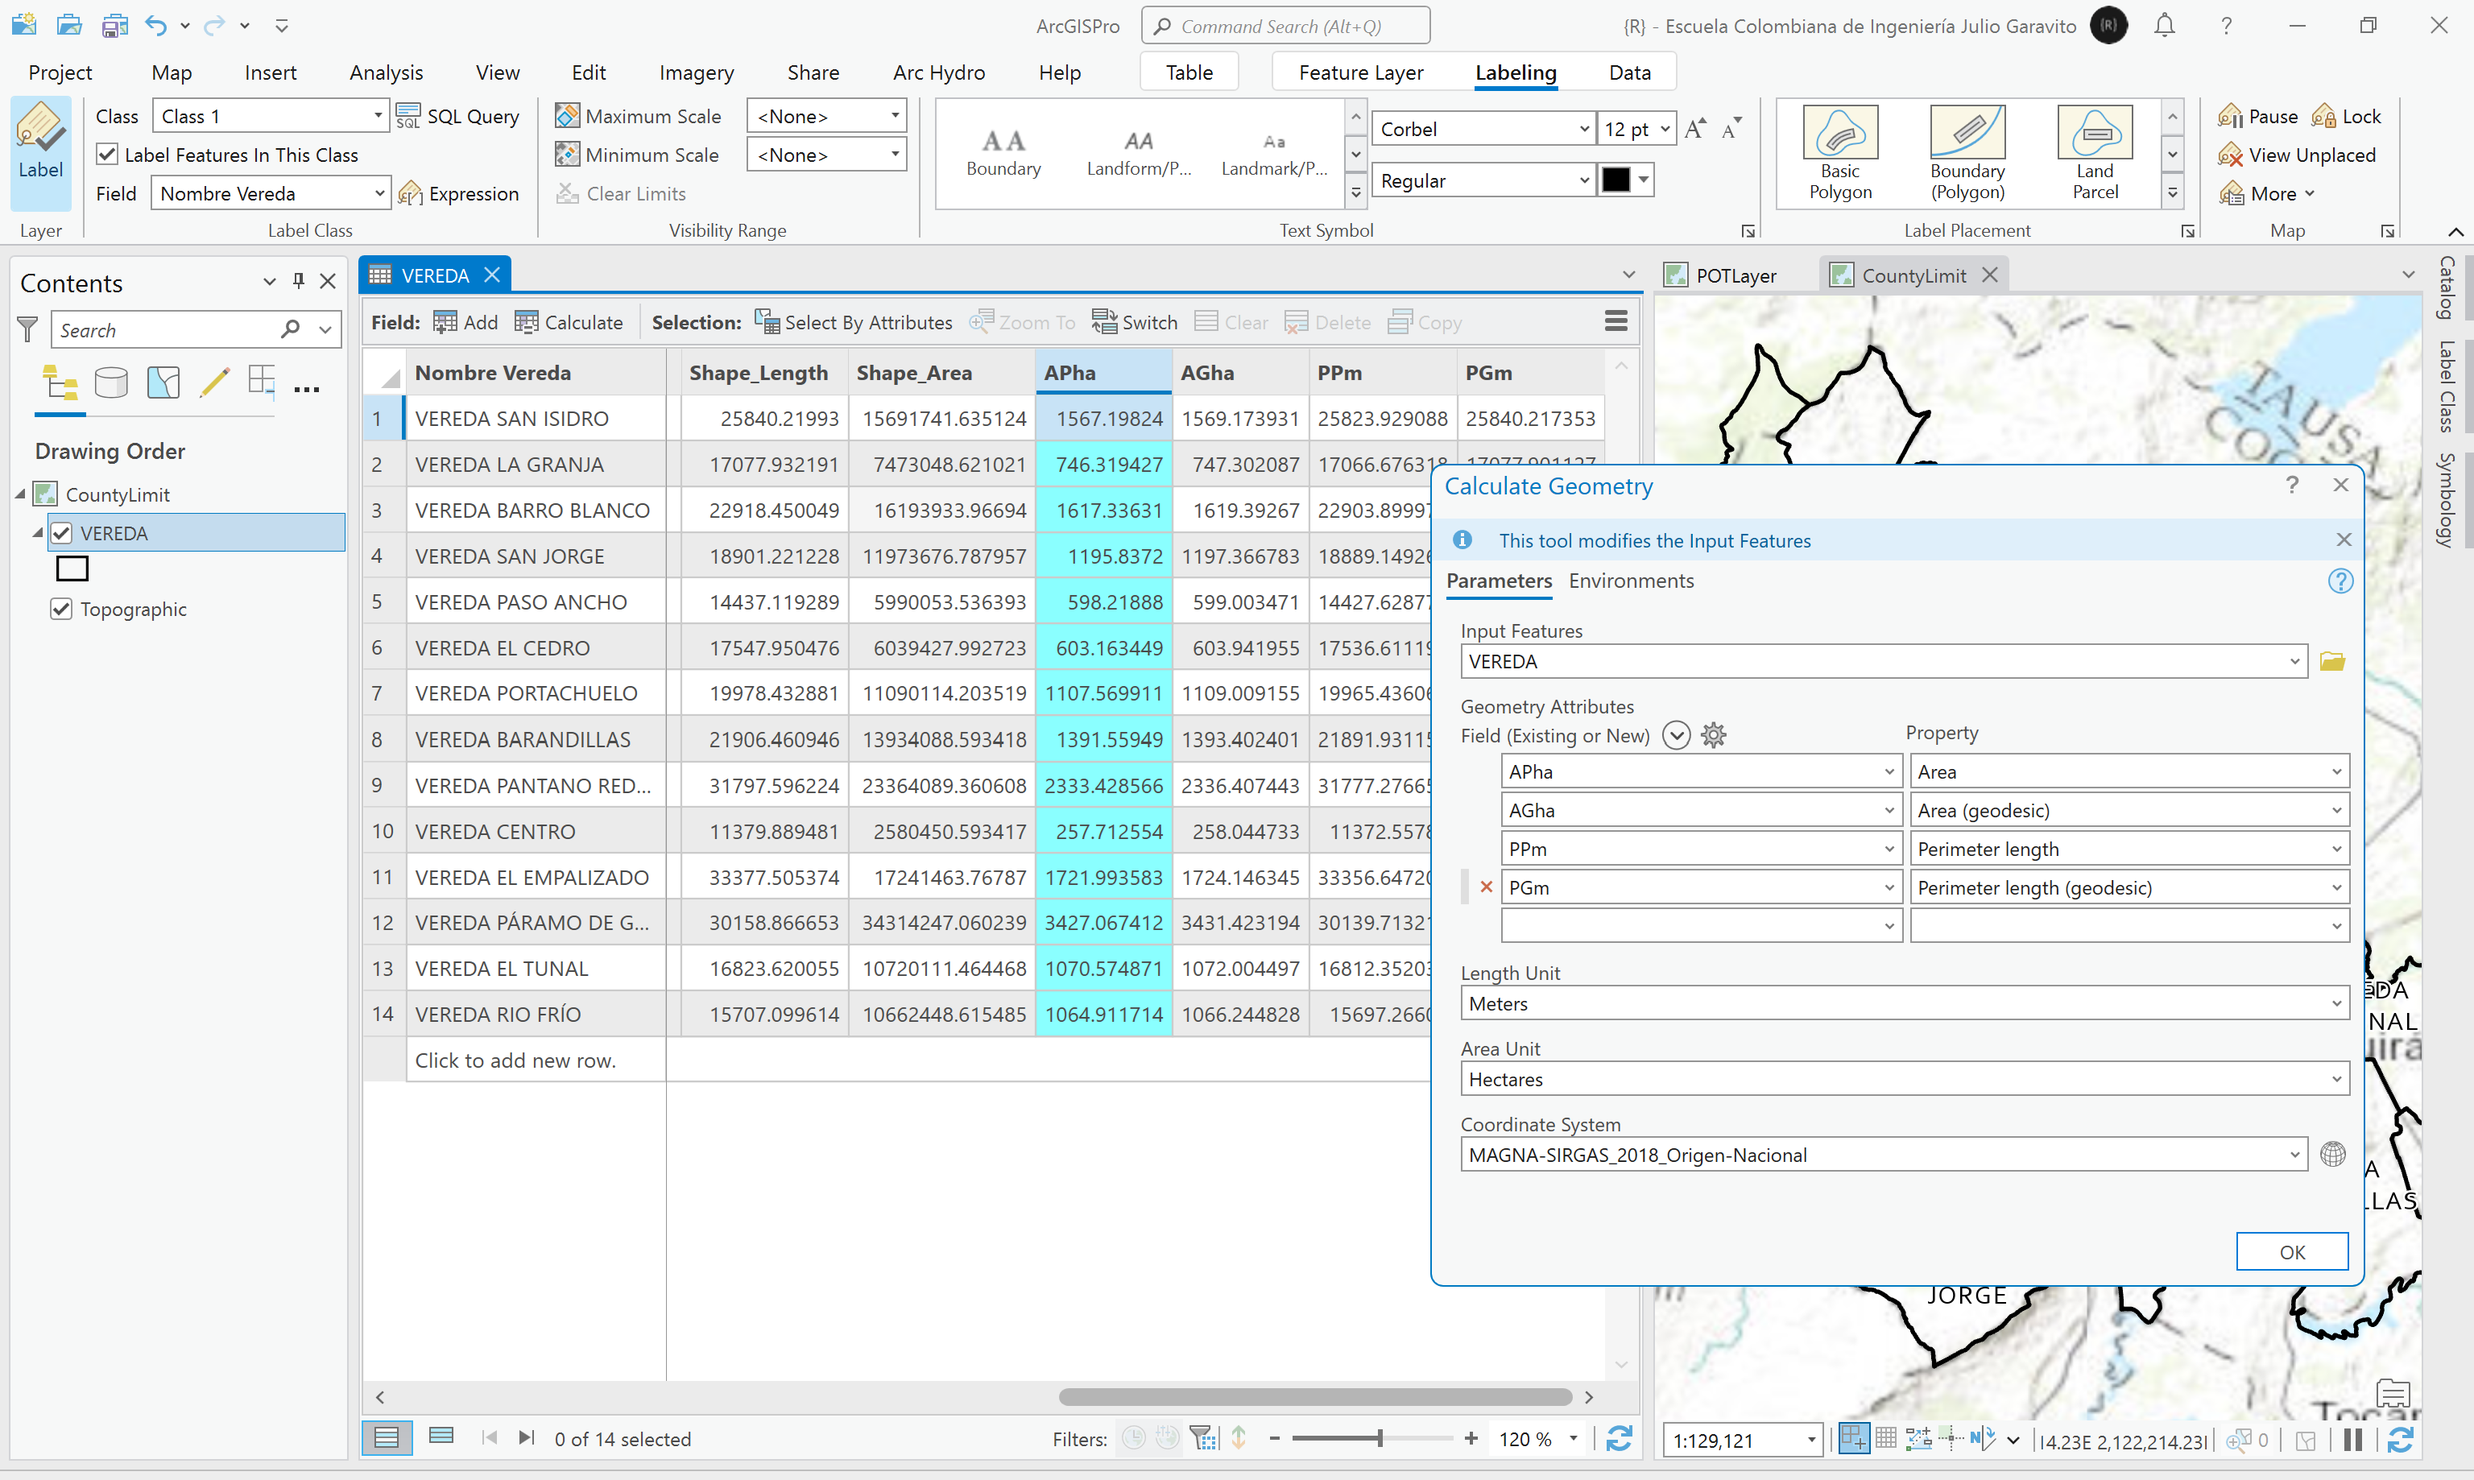
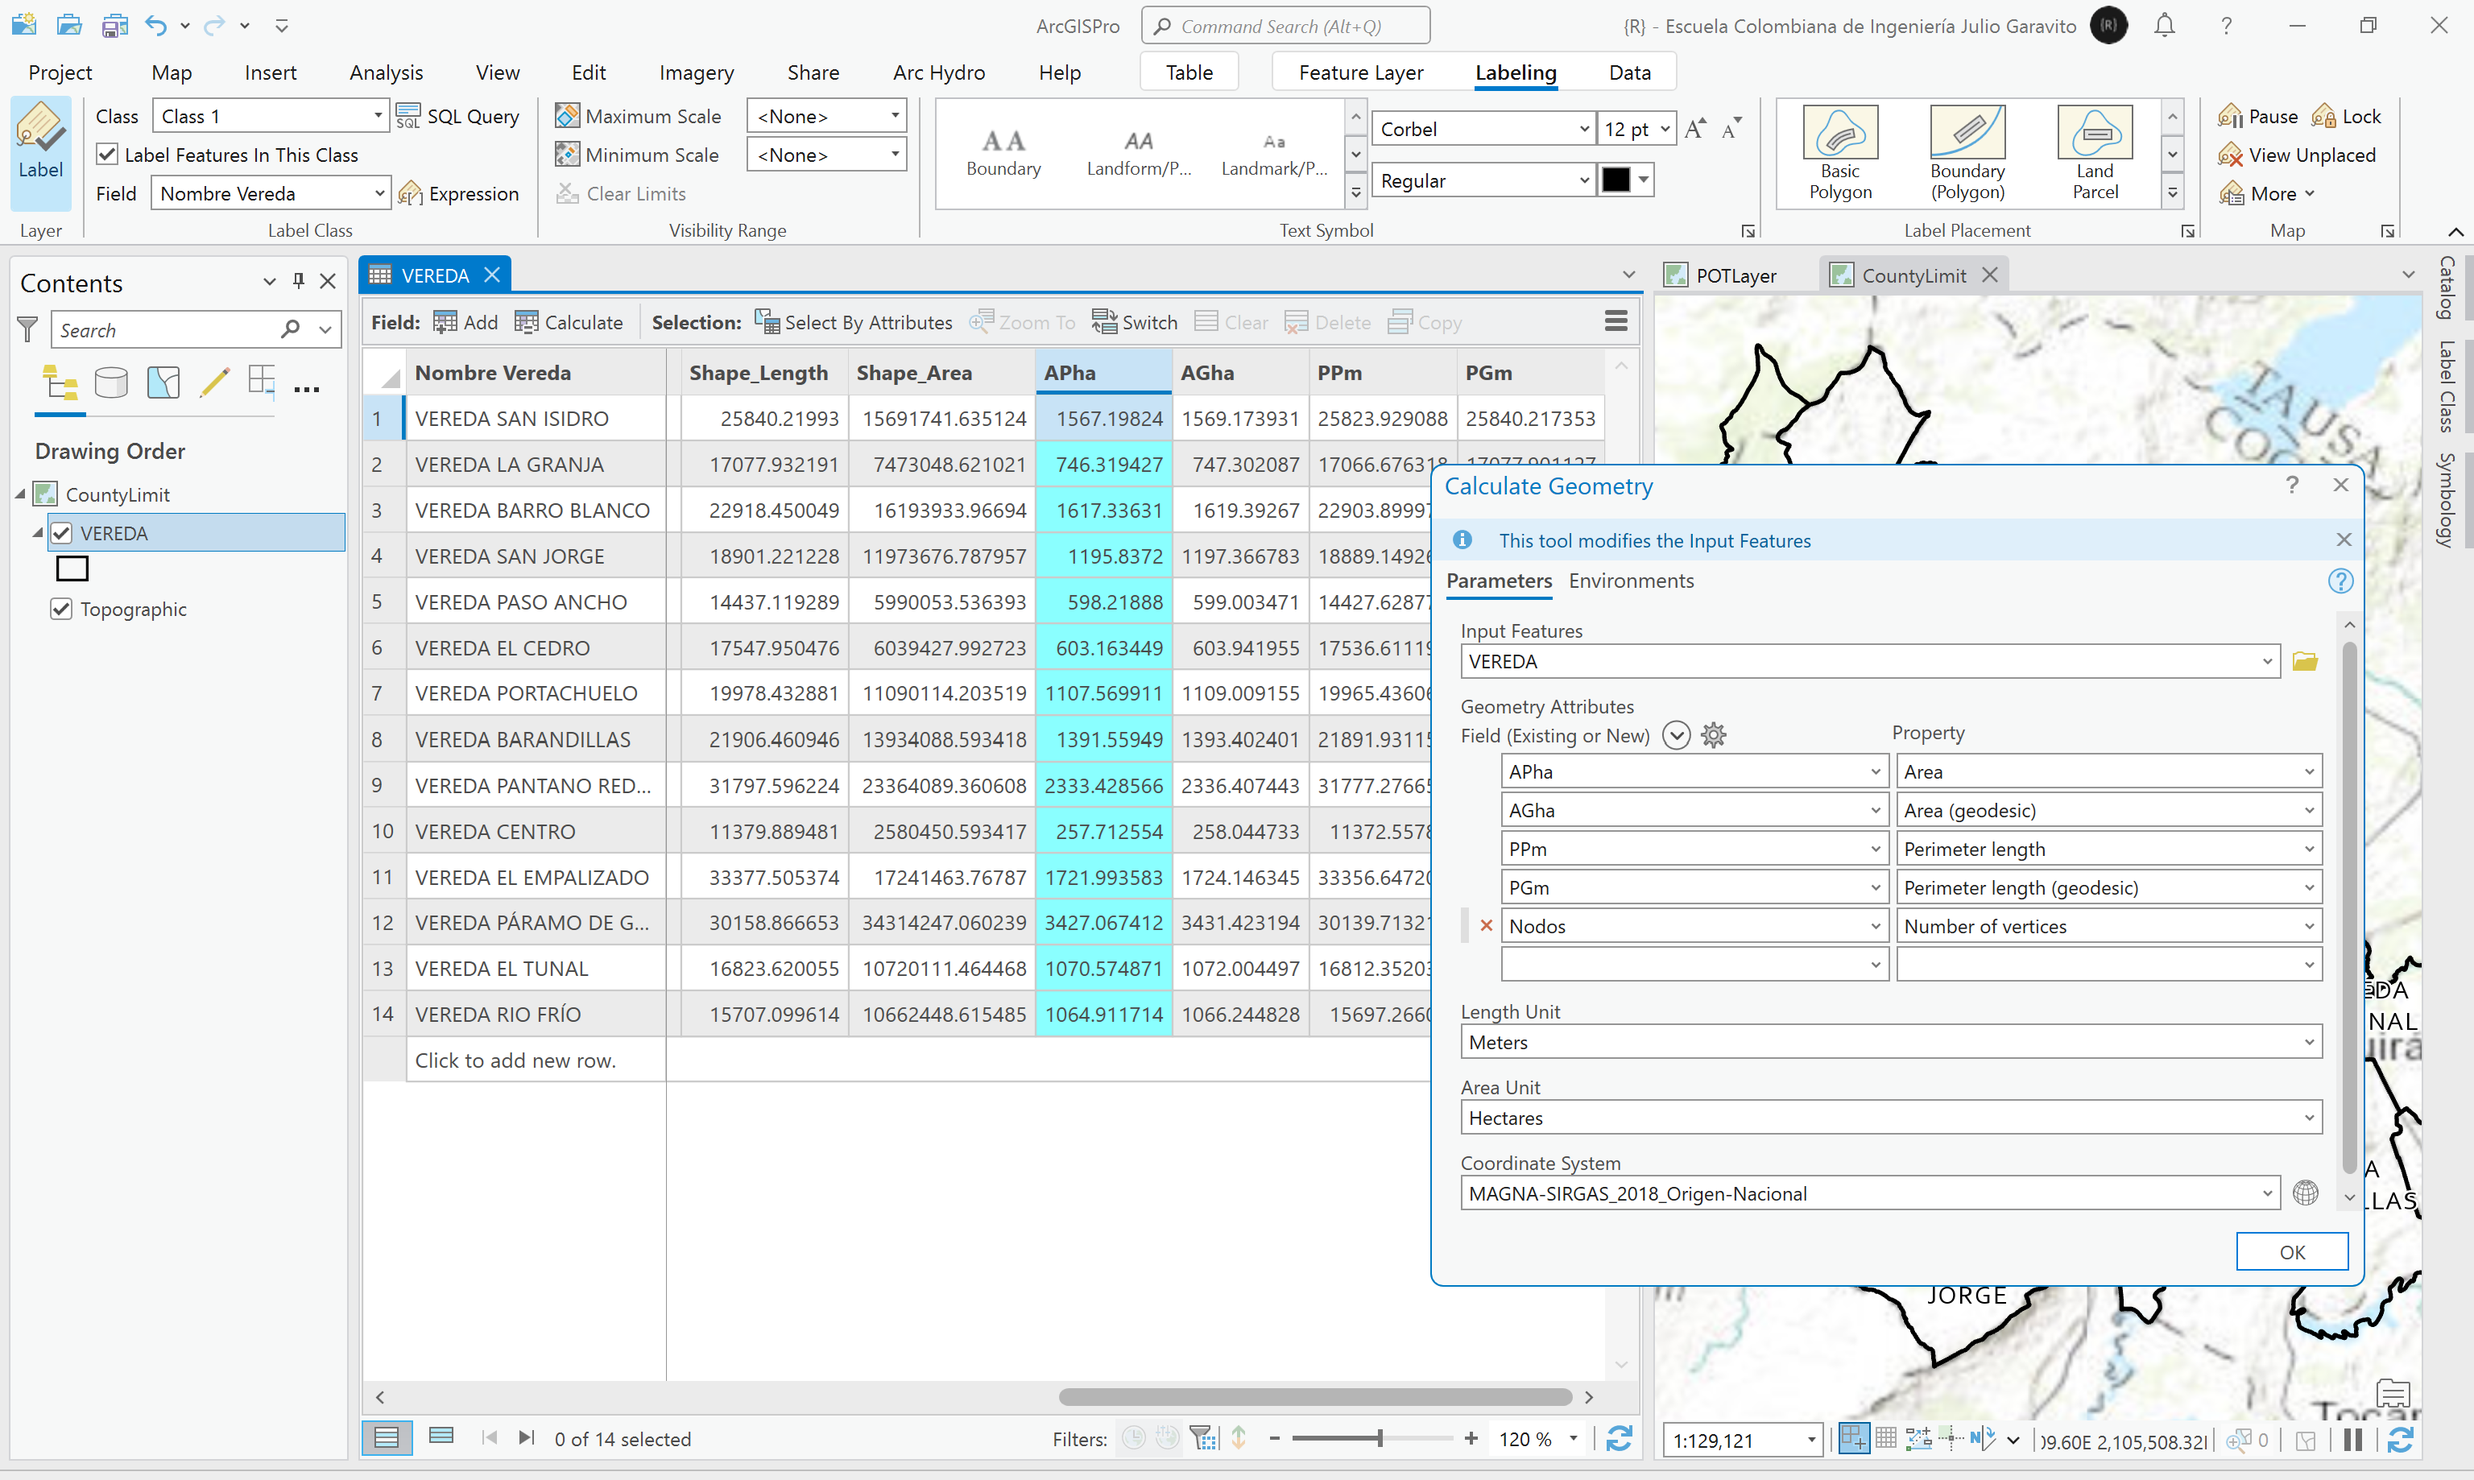
General update.

Changed region(s): [[0.5938, 0.4342, 0.9688, 0.8373], [0.75, 0.4962, 0.875, 0.6513]]

diff --git a/activity/CountyLimit/Readme.md b/activity/CountyLimit/Readme.md
@@ -66,15 +66,32 @@ Calcule las propiedades solicitadas indicando las unidades de cálculo y el sist
 > En actividades anteriores evidenciamos que el sistema de proyección de coordenadas de las capas recopiladas del POT es el 3116, correspondiente a MAGNA Sirgas Orígen Bogotá.  
 > Tenga en cuenta que el cálculo de las propiedades geométricas puede variar entre sistemas de coordenadas, por lo cual, los valores calculádos automáticamente (por estar contenida la capa dentro de una GDB) en esta capa en los campos Shape_Area y Shape_length (a partir del CRS 3116), son diferentes a los obtenidos con el sistema 9377.
 
+Incluya un campo adicional tipo entero largo con el nombre `Nodos` y desde el editor de geometría, calcule el número de nodos que componen cada entidad.
+
 <div align="center"><img src="graph/ArcGISPro_CalculateGeometryRun.png" alt="R.SIGE" width="100%" border="0" /></div>
 
+> :bulb:Recuerde que luego de incluir o modificar campos de atributos en tablas o capas, estos deben ser documentados en el diccionario de datos.
+
+7. Modifique el rótulo agregando el campo de área y perímetro geodésico, utilice una de las siguientes expresiones:
+
+| Lenguaje | Sentencia                                                                                                                                       |
+|----------|-------------------------------------------------------------------------------------------------------------------------------------------------|
+| Arcade   | `$feature.nombre + textformatting.NewLine + "A (ha): " + Round($feature.AGha, 2) + textformatting.NewLine + "P (m):" + Round($feature.PGm, 2)`  |
+| VBScript | `[nombre] & VbNewLine & "A (ha): " & Round([AGha],2) & VbNewLine & "P (m):" & Round([PGm], 2)`                                                  |
+| Python   | `[nombre] + "\nA (ha): " + str(round(float([AGha]), 2)) + "\nP (m):" + str(round(float([PGm]), 2))`                                             |
+| JScript  | `[nombre] + "\nA (ha): " + parseFloat([AGha]).toFixed(2) + "\nP (m):" + parseFloat([PGm]).toFixed(2)`                                           |
+
+
+<div align="center"><img src="graph/ArcGISPro_TableAddFieldAdvanced.png" alt="R.SIGE" width="100%" border="0" /></div>
+
+8. En el panel lateral *Contents*, de clic derecho en _VEREDA_ y seleccione la opción _Create Chart / Bar Chart_, cree una gráfica en orden descendente para los valores de área geográfica, podrá observar que la vereda Páramo de Guerrero es la de mayor extensión.
+
+<div align="center"><img src="graph/ArcGISPro_Vereda1Chart.png" alt="R.SIGE" width="100%" border="0" /></div>
 
 
 
 
 
-
-> Como observa, el área urbana no esta incluída en los límites geográficos de la capa, sin embargo, podrá calcular su área restando
 
 ### 1.2. Mapa veredal a partir de predios diagnóstico POT año 2010
 
@@ -95,6 +112,8 @@ https://www.colombiaenmapas.gov.co
 
 ### 
 
+
+> Como observa, el área urbana no esta incluída en los límites geográficos de la capa, sin embargo, podrá calcular su área restando
 
 
 ## Actividades de proyecto :triangular_ruler:
